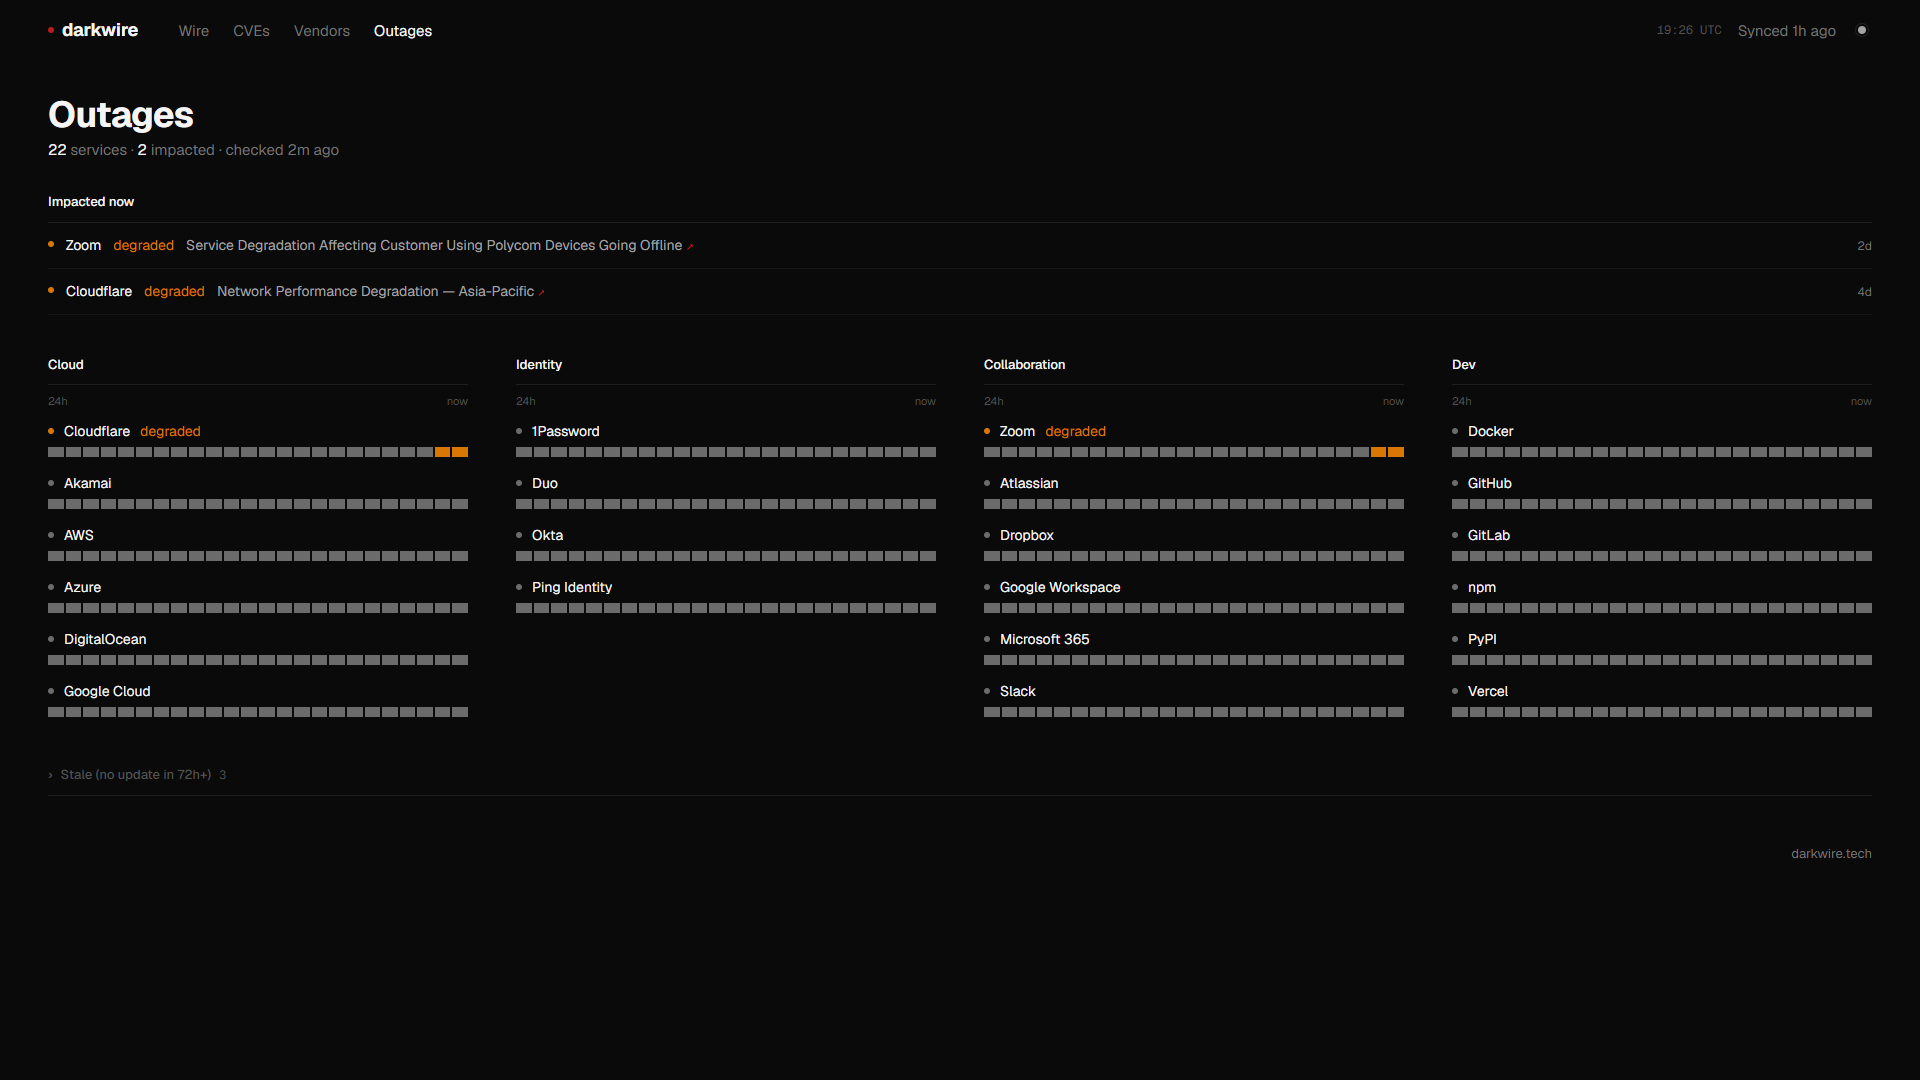
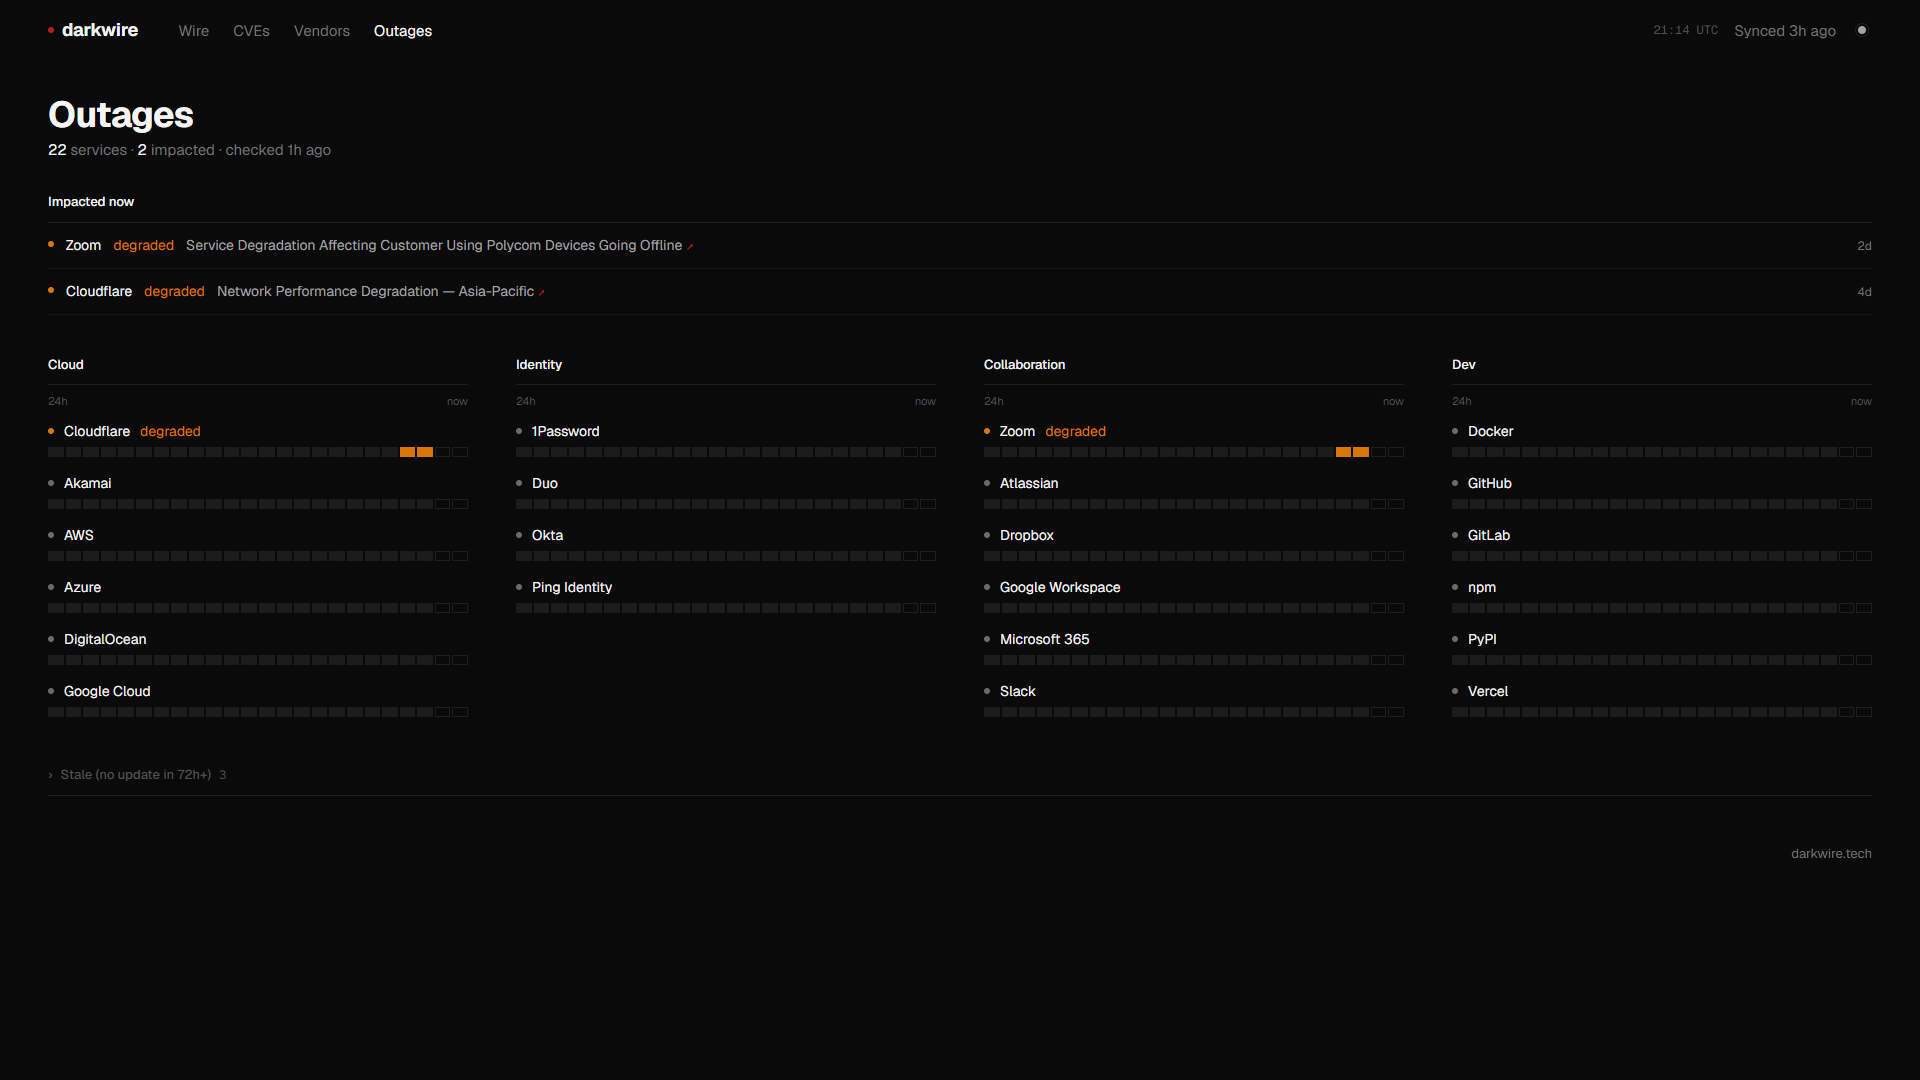
/outages strips: quiet operational cells, outlined no-data cells, hour tooltips

diff --git a/web/components/ServiceBits.tsx b/web/components/ServiceBits.tsx
@@ -1,6 +1,9 @@
+"use client"
+
 import { cn } from "cn"
 
 import type { ServiceOut, ServiceState } from "@/lib/api"
+import { useNow } from "@/lib/time"
 
 // Shared by the rail's Services block and /outages: one visual language for service state,
 // the same as the CVSS bar (5x10px cells, 2px gap): gray ok, amber degraded, red major,
@@ -20,11 +23,28 @@ const DOT: Record<ServiceState, string> = {
   unknown: "bg-rule",
 }
 
+// Operational hours are a flat quiet line; hours before polling began are only outlined.
 const CELL: Record<ServiceState, string> = {
-  operational: "bg-medium",
+  operational: "bg-strip-ok",
   degraded: "bg-degraded",
   major: "bg-critical",
-  unknown: "bg-rule",
+  unknown: "bg-transparent ring-1 ring-inset ring-rule",
+}
+
+const CELL_WORD: Record<ServiceState, string> = {
+  operational: "operational",
+  degraded: "degraded",
+  major: "major",
+  unknown: "no data",
+}
+
+/** "13:00–14:00 PDT" for the cell `back` hours before the current one (local zone). */
+function hourRange(back: number, nowMs: number): string {
+  const start = new Date(Math.floor(nowMs / 3_600_000) * 3_600_000 - back * 3_600_000)
+  const end = new Date(start.getTime() + 3_600_000)
+  const hm = (d: Date) => `${String(d.getHours()).padStart(2, "0")}:${String(d.getMinutes()).padStart(2, "0")}`
+  const zone = new Intl.DateTimeFormat([], { timeZoneName: "short" }).formatToParts(start).find((p) => p.type === "timeZoneName")?.value ?? ""
+  return `${hm(start)}–${hm(end)} ${zone}`.trim()
 }
 
 export function StateDot({ state, className }: { state: ServiceState; className?: string }) {
@@ -40,6 +60,7 @@ export function StateDot({ state, className }: { state: ServiceState; className?
 
 /** 24 cells, one per hour, oldest on the left. `stretch` spreads them over the full width. */
 export function HourStrip({ hours, stretch = false, className }: { hours: ServiceState[]; stretch?: boolean; className?: string }) {
+  const now = useNow()
   const impacted = hours.filter((h) => h === "degraded" || h === "major").length
   return (
     <span
@@ -48,7 +69,11 @@ export function HourStrip({ hours, stretch = false, className }: { hours: Servic
       className={cn("flex shrink-0 gap-0.5", className)}
     >
       {hours.map((h, i) => (
-        <span key={i} className={cn("h-2.5", stretch ? "min-w-0 flex-1" : "w-[5px]", CELL[h])} />
+        <span
+          key={i}
+          title={now === null ? undefined : `${hourRange(hours.length - 1 - i, now)} · ${CELL_WORD[h]}`}
+          className={cn("h-2.5", stretch ? "min-w-0 flex-1" : "w-[5px]", CELL[h])}
+        />
       ))}
     </span>
   )

diff --git a/web/app/globals.css b/web/app/globals.css
@@ -26,6 +26,7 @@
   --chip-impact: #1c1010; /* C / I / A at High */
   --on-critical: #ffffff; /* CRITICAL badge text */
   --degraded: #d97706; /* service degraded (amber); major outages use --critical */
+  --strip-ok: #1c1c1c; /* operational hour on the /outages strip: barely above --bg */
 
   color-scheme: dark;
 }
@@ -53,6 +54,7 @@ html[data-theme="amber"] {
   --chip-impact: #2a120c;
   --on-critical: #ffffff;
   --degraded: #e08a1e;
+  --strip-ok: #1d1810;
 }
 
 html[data-theme="phosphor"] {
@@ -75,6 +77,7 @@ html[data-theme="phosphor"] {
   --chip-impact: #26120e;
   --on-critical: #ffffff;
   --degraded: #d9a21b;
+  --strip-ok: #0f1d13;
 }
 
 /* WCAG-minded: pure black, white text, visible hairlines, every text tone >= 7:1 on --bg
@@ -99,6 +102,7 @@ html[data-theme="high-contrast"] {
   --chip-impact: #3d0b0b;
   --on-critical: #ffffff;
   --degraded: #ffb000;
+  --strip-ok: #262626;
 }
 
 @theme inline {
@@ -121,6 +125,7 @@ html[data-theme="high-contrast"] {
   --color-chip-impact: var(--chip-impact);
   --color-on-critical: var(--on-critical);
   --color-degraded: var(--degraded);
+  --color-strip-ok: var(--strip-ok);
 
   --font-sans: var(--font-geist-sans);
   --font-mono: var(--font-geist-mono);

diff --git a/CLAUDE.md b/CLAUDE.md
@@ -22,7 +22,7 @@ Reference mockups: `/design-refs/home.png` and `/design-refs/wire.png`. Match th
 | `/cves` | Sortable table: CVE, vendor, product, CVSS, EPSS, KEV, published. |
 | `/vendor/[slug]` | Everything tagged to one vendor. |
 | `/item/[id]`, `/cve/[id]` | Permalinks that open the expanded row. |
-| `/outages` | One-screen dashboard of about 20 third-party services. Header, then "Impacted now": one full-width line per impacted service (dot, name, `degraded`/`major` in their tokens, full incident title linking to the vendor page, age), major first then most recent; "All N services operational." in `--muted` when none. Then the four groups (Cloud, Identity, Collaboration, Dev) as columns separated only by gap: 4 from 1600px, 2x2 from 1200px, stacked below. Each group: 13px/500 label over a hairline, "24h … now" once, then per service a name line (dot, name, state word only when impacted) and the 24-cell strip at full column width (gray ok, amber degraded, red major, `--rule` no data). The strip follows the same 72h stale rule as the status. Stale events stay collapsed, full width, below. No scroll at 1920x1080 or 2560x1440 with up to 2 impacted services. Nav link "Outages". |
+| `/outages` | One-screen dashboard of about 20 third-party services. Header, then "Impacted now": one full-width line per impacted service (dot, name, `degraded`/`major` in their tokens, full incident title linking to the vendor page, age), major first then most recent; "All N services operational." in `--muted` when none. Then the four groups (Cloud, Identity, Collaboration, Dev) as columns separated only by gap: 4 from 1600px, 2x2 from 1200px, stacked below. Each group: 13px/500 label over a hairline, "24h … now" once, then per service a name line (dot, name, state word only when impacted) and the 24-cell strip at full column width (operational `--strip-ok`, barely above `--bg`, so a healthy service is a flat quiet line; amber degraded; red major; no data = transparent with a 1px `--rule` outline). Each cell's title reads "13:00–14:00 PDT · degraded" (or operational / major / no data). The strip follows the same 72h stale rule as the status. Stale events stay collapsed, full width, below. No scroll at 1920x1080 or 2560x1440 with up to 2 impacted services. Nav link "Outages". |
 | `/sources` | Every feed we ingest, how tagging works, what KEV and EPSS mean. Plain, not a pitch. |
 | `/feed.xml`, `/feed.json` | Our own output for other people's tools. |
 
